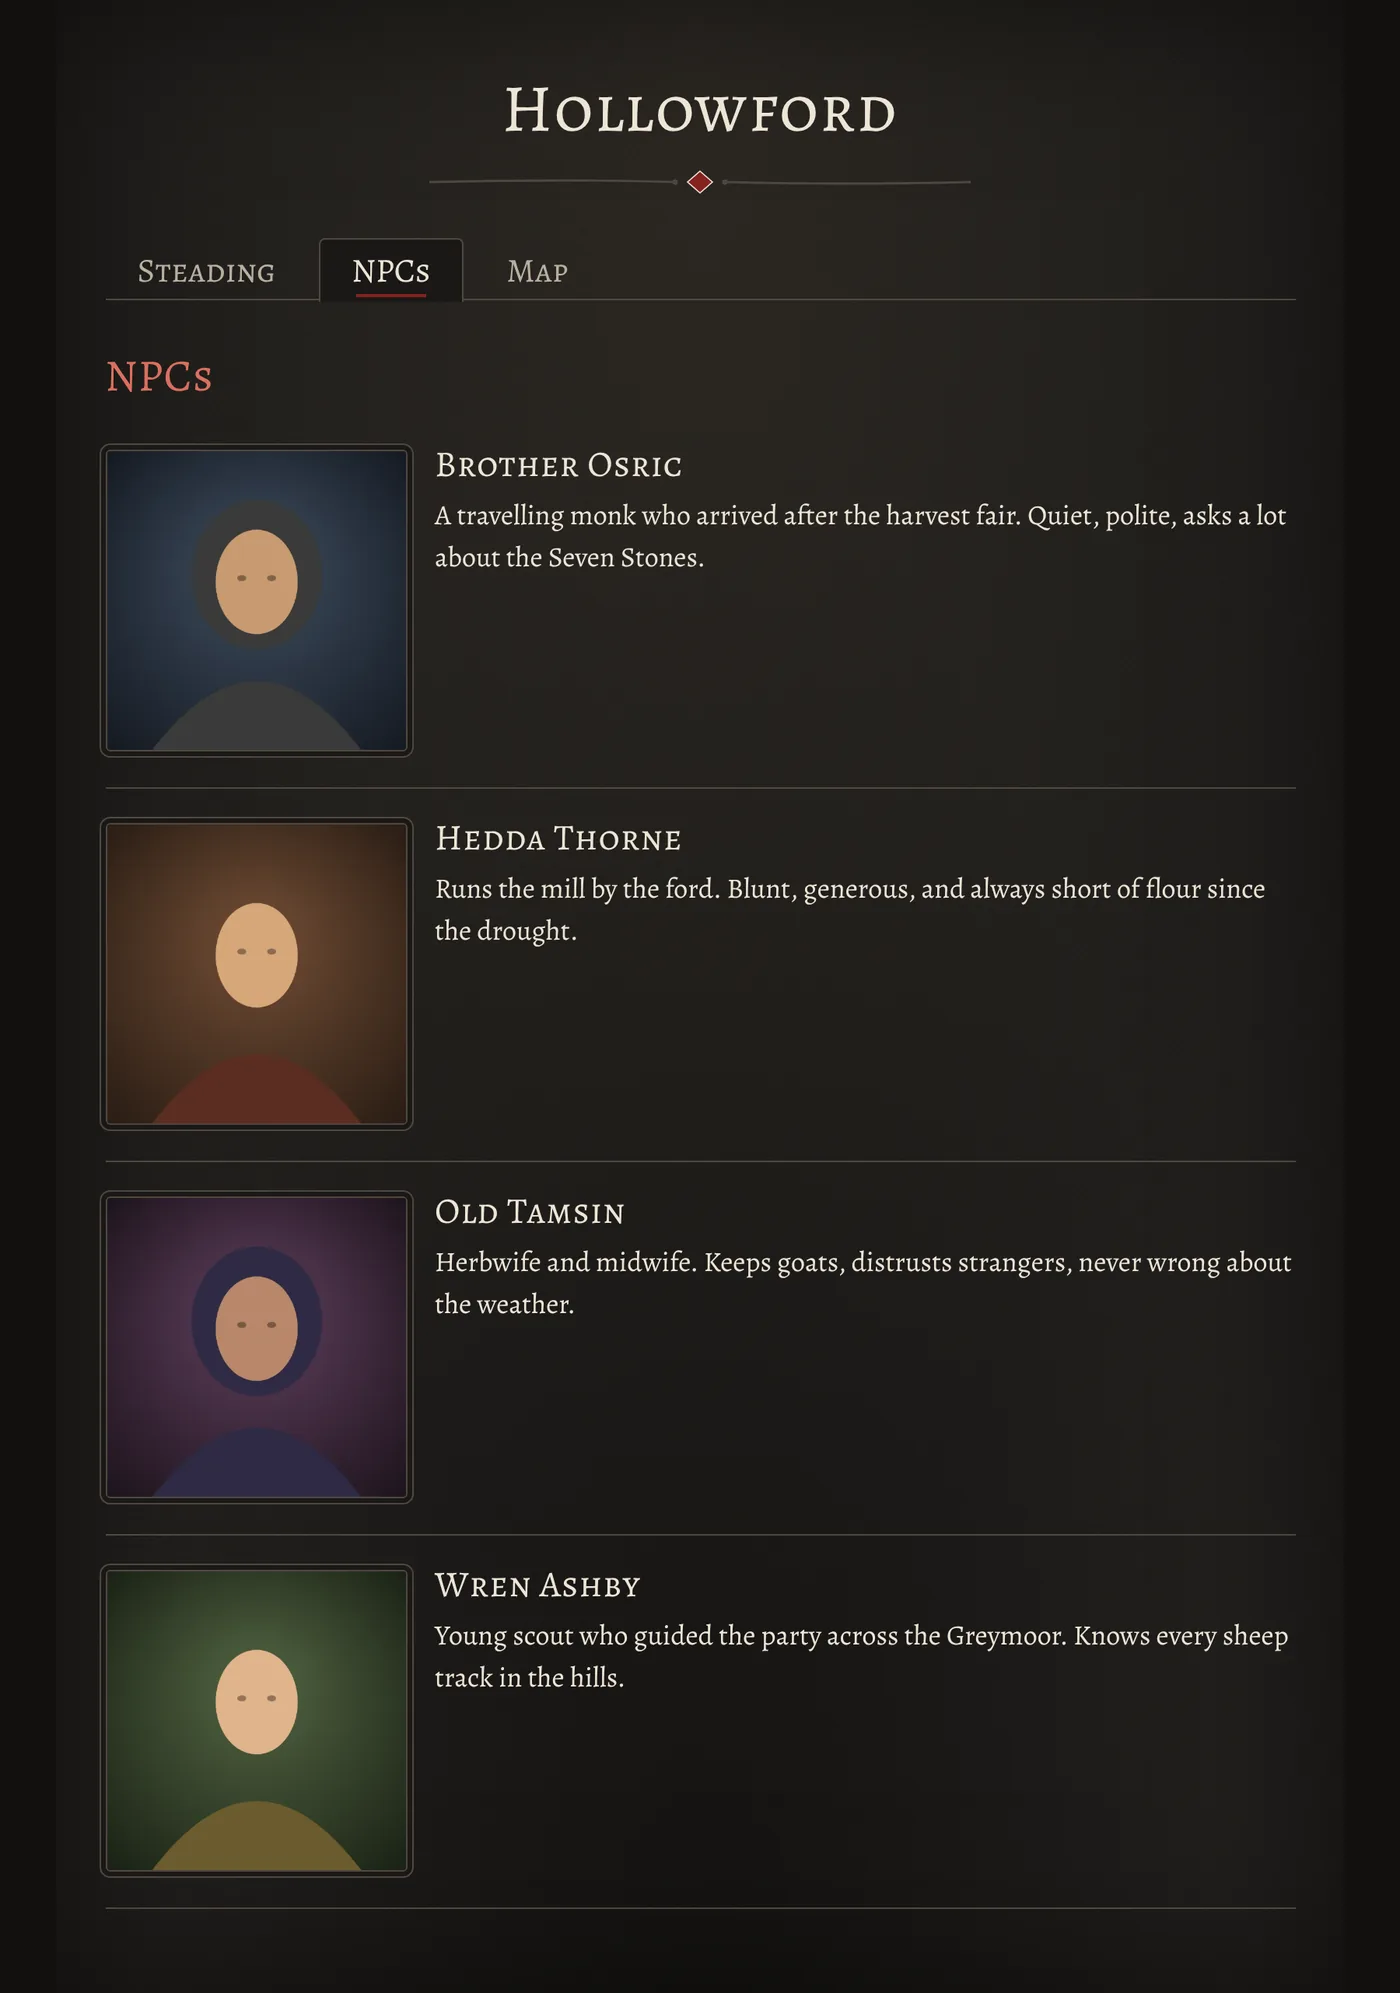
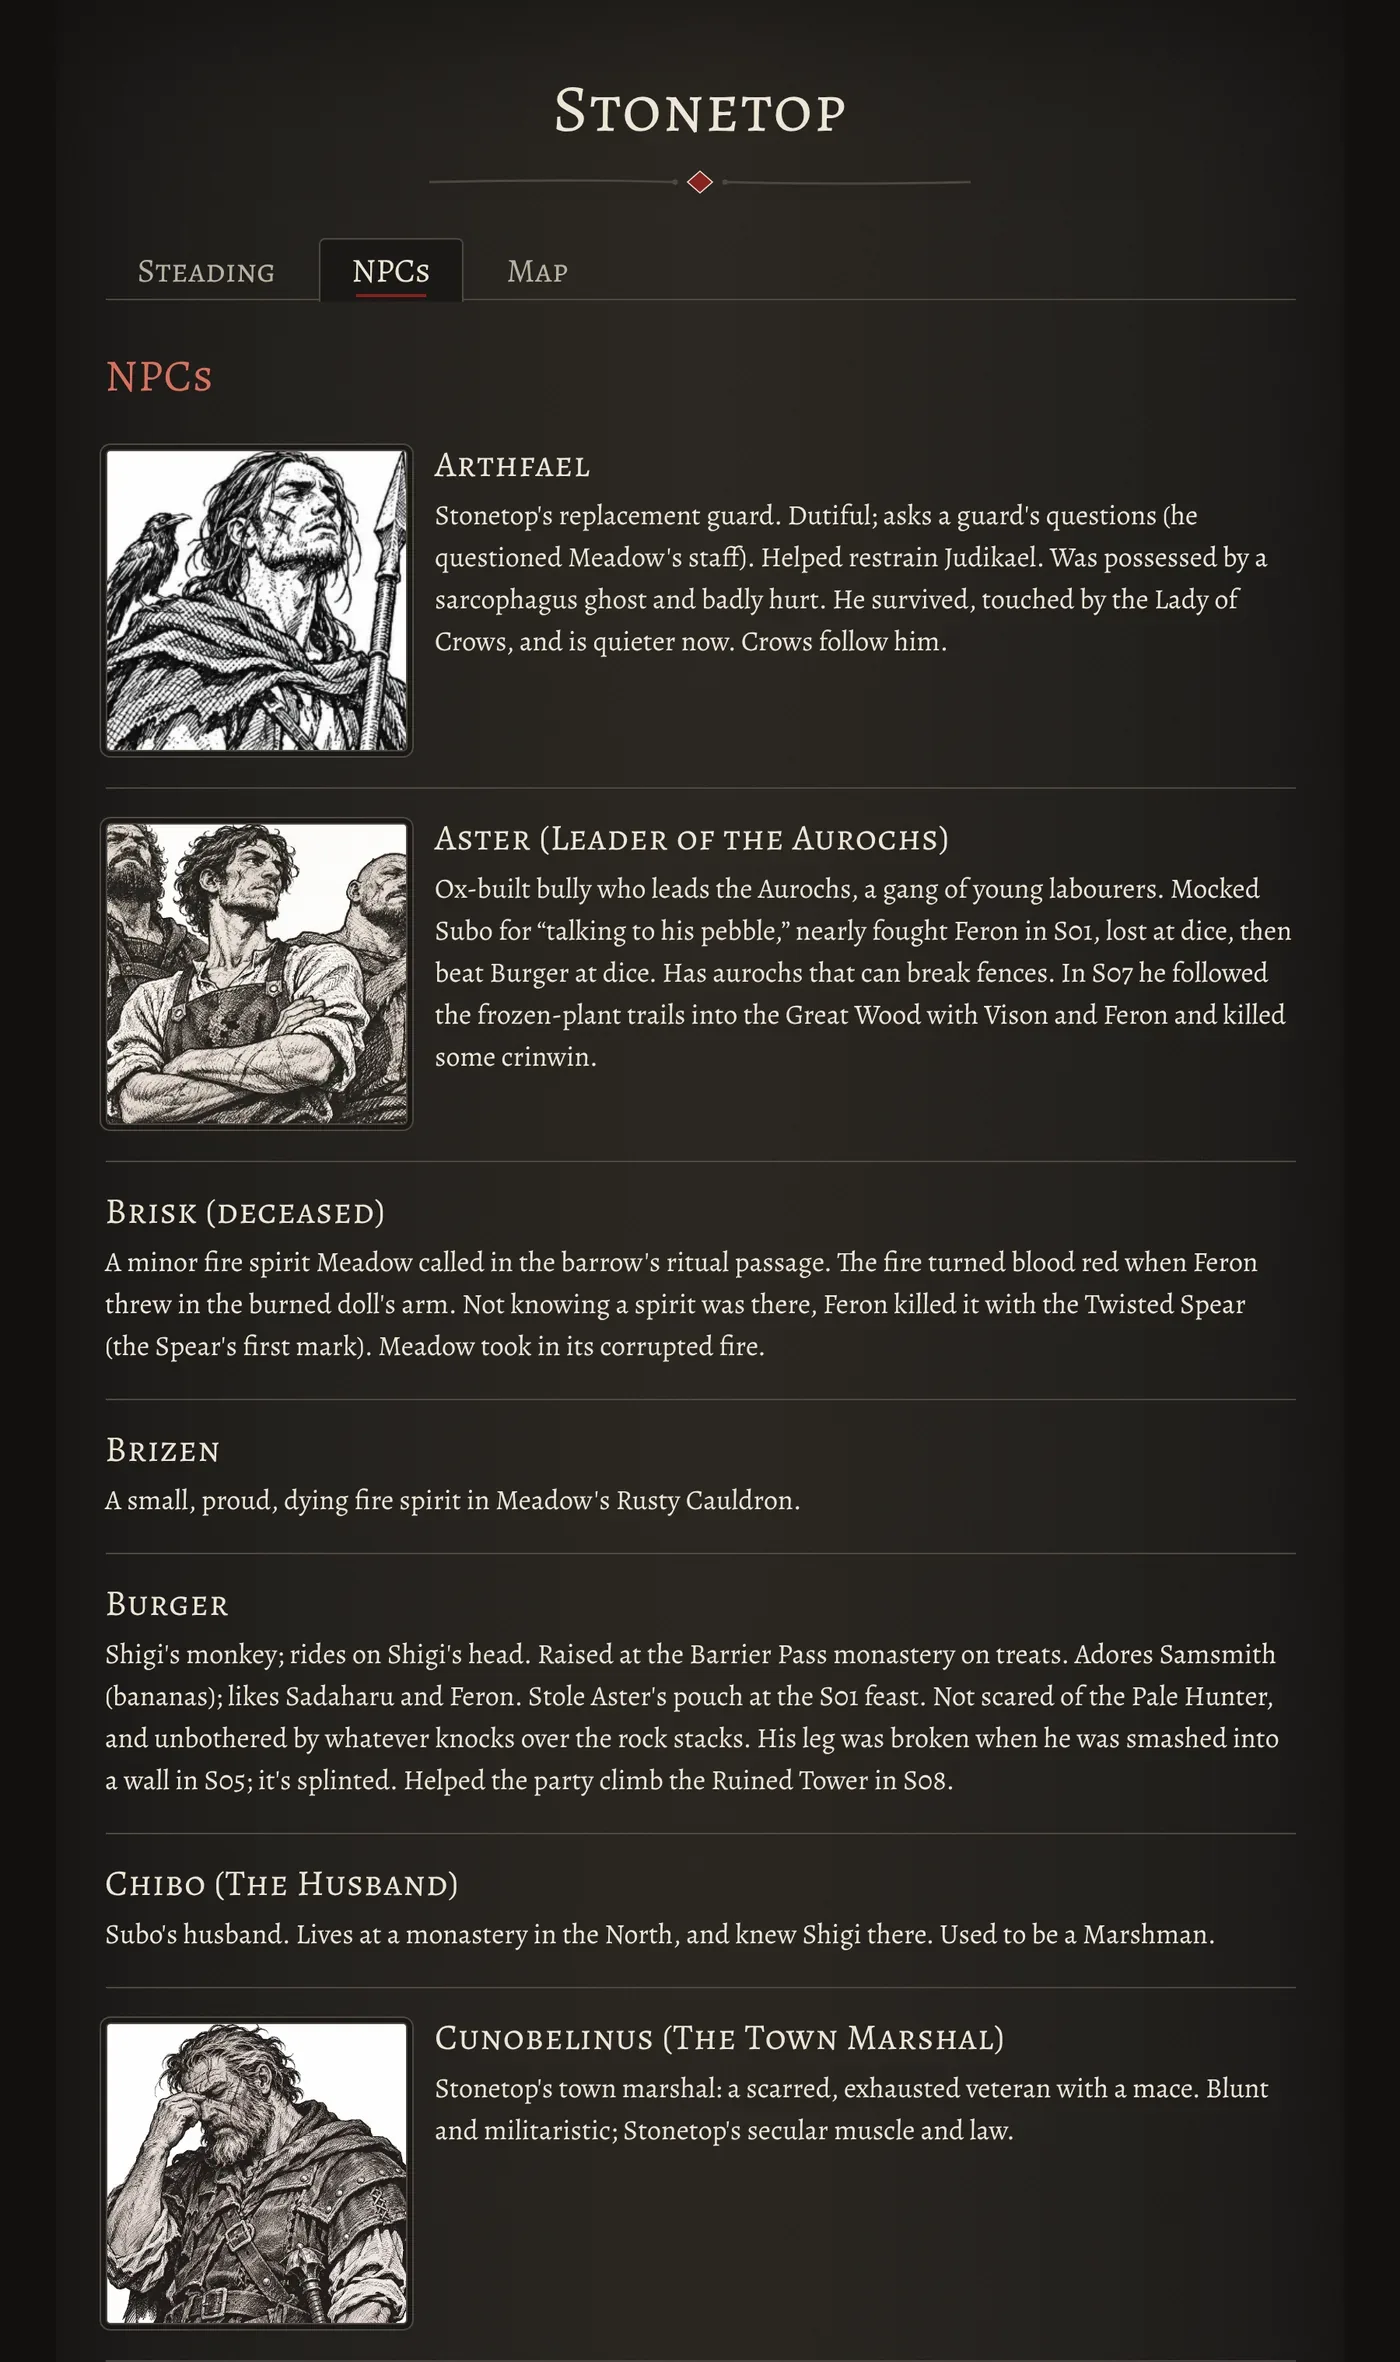
Use live player screenshots for the steading and NPCs
The README's player Steading and NPC screenshots now come from the
campaign's live player link (portraits shared with the owner's OK). The
map and GM screenshots stay as demo data: the campaign map is from the
Stonetop book, and the GM views hold secrets. The README note says so.

Claude-Session: https://claude.ai/code/session_01TzZR4pSKhw2mozkywXe2VY

diff --git a/README.md b/README.md
@@ -6,7 +6,7 @@ A web app for running a [Stonetop](#disclaimer) tabletop campaign between sessio
 
 **Stack:** ASP.NET Core 10 minimal API · EF Core + PostgreSQL · React 19 + TypeScript + React Query · xUnit + Testcontainers · Vitest · Docker · GitHub Actions → Render + Neon
 
-> The screenshots below use a made-up demo steading, *Hollowford*, with an original demo map drawn for this README. My own campaign's data stays private.
+> The player Steading and NPC screenshots come straight from my campaign's live player link. The map and GM screenshots use a made-up demo steading, *Hollowford*, with an original map drawn for this README: my campaign's map comes from the Stonetop book, and the GM views hold my players' secrets.
 
 ## What the players see
 
@@ -14,7 +14,7 @@ Players get a link like `/view/ember-moss-lantern-crow`. There's no account and 
 
 | The steading | The people they've met |
 | --- | --- |
-| ![Player view of the steading: stats with their labels, active debilities, and the change log](docs/screenshots/player-steading.webp) | ![Player view of the NPCs: portraits and what the party knows about each one](docs/screenshots/player-npcs.webp) |
+| ![Player view of the steading: stats with their labels, debilities, and the change log](docs/screenshots/player-steading.webp) | ![Player view of the NPCs: portraits and what the party knows about each one](docs/screenshots/player-npcs.webp) |
 
 **The map, session by session.** Arrows step through the sessions. Each one shows that session's route with numbered stops and direction arrows, earlier journeys faded underneath, and a marker where the party is now. It opens on the latest session.
 
